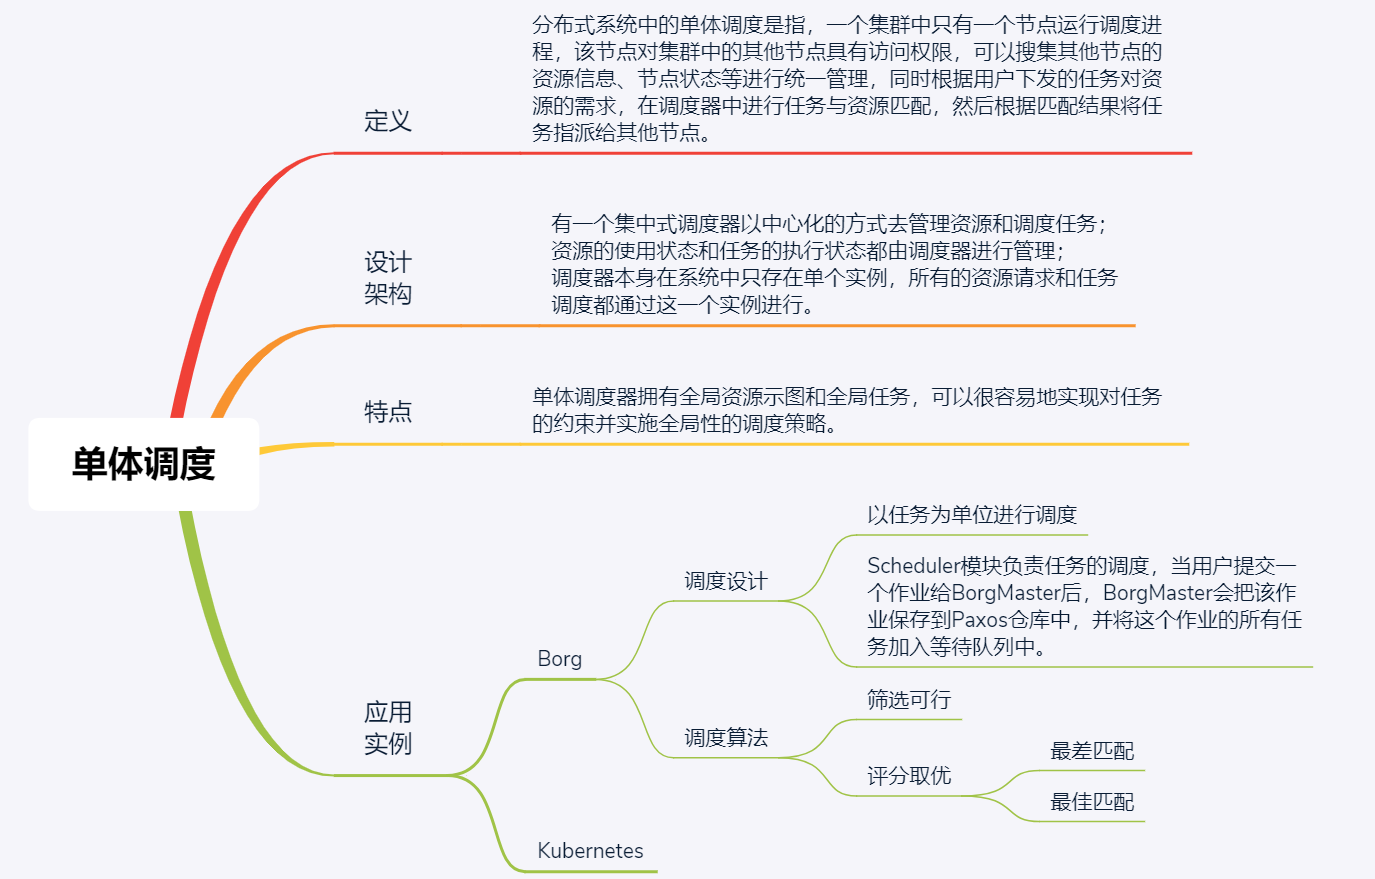
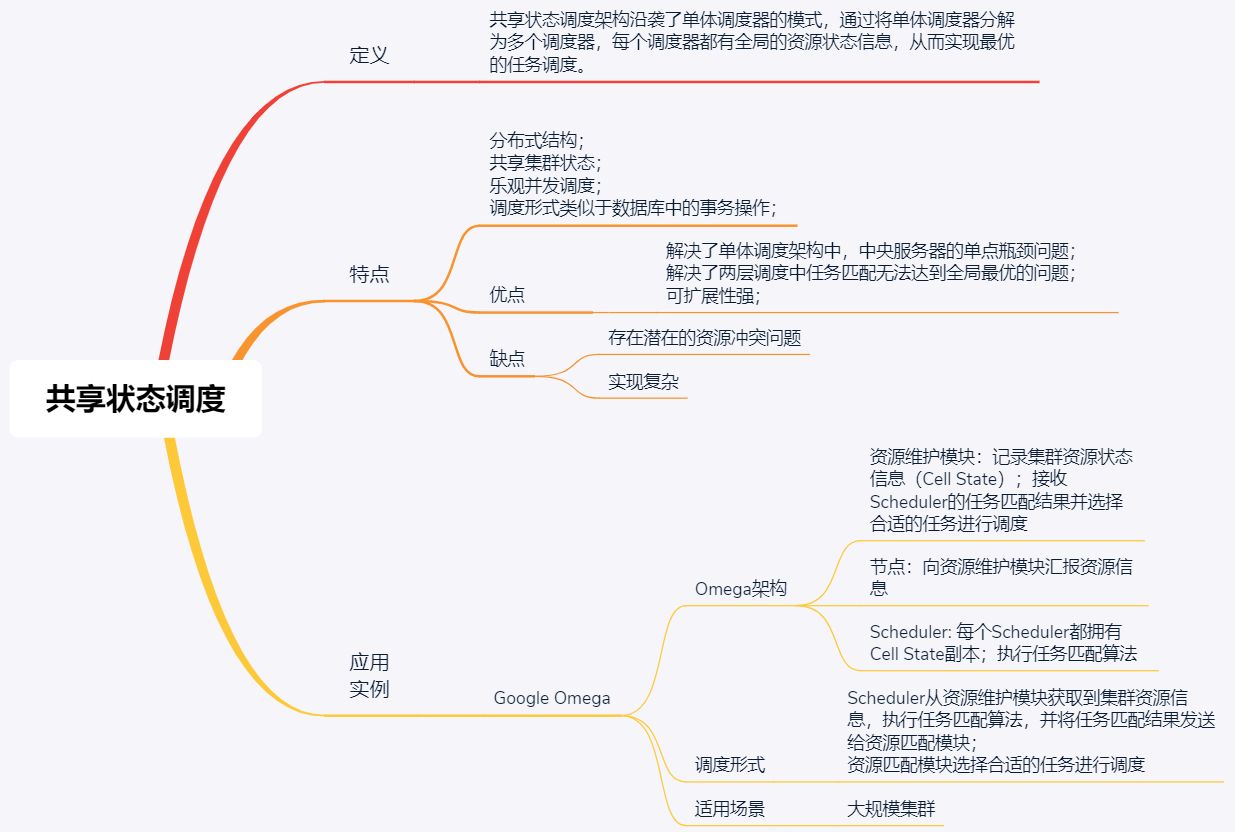
GitBook: [master] 134 pages and 6 assets modified

Changed region(s): [[0.0308, 0.0, 0.9846, 1.0], [0.3692, 0.9375, 0.4923, 1.0], [0.3692, 0.75, 0.4615, 0.7812]]

diff --git a/computer-science/distributed-system/scheduling.md b/computer-science/distributed-system/scheduling.md
@@ -11,7 +11,7 @@
 * 可行性检查，找到多台可以运行任务的机器。
 * 评分，从多台中选择一台。又分为“最差匹配”和“最佳匹配”两种。
 
-![](../../.gitbook/assets/image%20%28277%29.png)
+![](../../.gitbook/assets/image%20%28279%29.png)
 
 若是有多个集群，则通过**集群联邦**来实现单体调度。集群联邦就是单体调度的分层实现。
 
@@ -19,5 +19,17 @@
 
 两层调度的第一层是中央调度器，只负责资源的管理和分配；第二层只能获得部分的资源视图，负责任务与资源匹配。
 
-![](../../.gitbook/assets/image%20%28278%29.png)
+![](../../.gitbook/assets/image%20%28280%29.png)
+
+## 共享状态调度
+
+有多个调度器，共享集群状态，包括资源状态和任务状态。通过乐观并发调度来解决冲突，而双层调度是悲观的并发调度。
+
+![](../../.gitbook/assets/image%20%28277%29.png)
+
+## 对比
+
+![](../../.gitbook/assets/image%20%28281%29.png)
+
+![](../../.gitbook/assets/image%20%28276%29.png)
 

diff --git a/computer-science/distributed-system/README.md b/computer-science/distributed-system/README.md
@@ -6,13 +6,13 @@
   * [分布式共识](theory.md#consensus)
   * [分布式事务](theory.md#transaction)
   * [分布式锁](theory.md#lock)
-* [分布式体系结构](resource-management-and-scheduling.md)
+* [分布式资源管理](resource-management-and-scheduling.md)
   * [集中式](resource-management-and-scheduling.md#ji-zhong-shi-jie-gou)
   * [非集中式](resource-management-and-scheduling.md#fei-ji-zhong-shi-jie-gou)
 * [分布式调度](scheduling.md)
   * [单体调度](scheduling.md#dan-ti-tiao-du)
   * [两层调度](scheduling.md#liang-ceng-tiao-du)
-  * 共享状态调度
+  * [共享状态调度](scheduling.md#gong-xiang-zhuang-tai-tiao-du)
 * 分布式系统
   * 为什么要进行系统拆分？
   * 分布式服务框架

diff --git a/computer-science/distributed-system/resource-management-and-scheduling.md b/computer-science/distributed-system/resource-management-and-scheduling.md
@@ -26,5 +26,5 @@
 
 以 Akka、Redis、Cassandra 为例。
 
-![](../../.gitbook/assets/image%20%28276%29.png)
+![](../../.gitbook/assets/image%20%28278%29.png)
 
